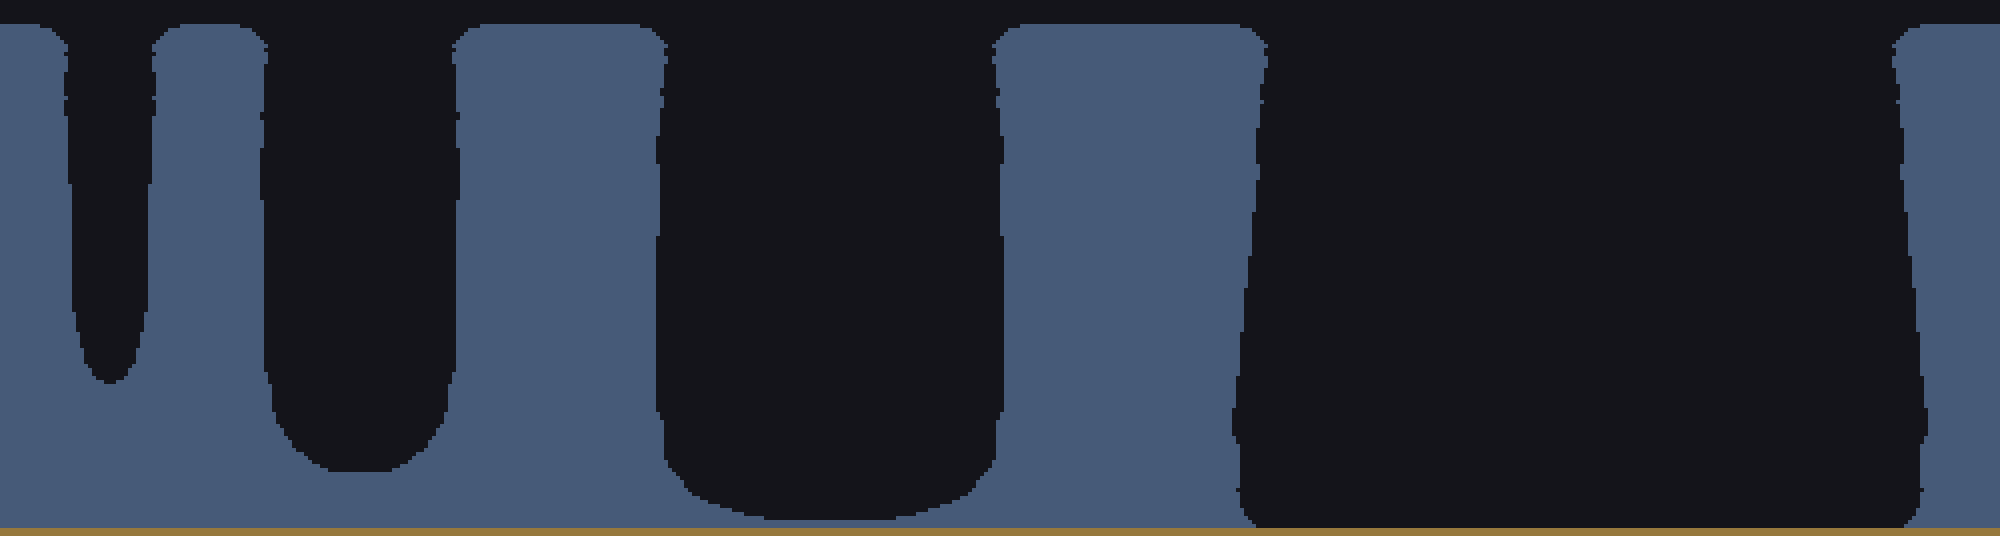
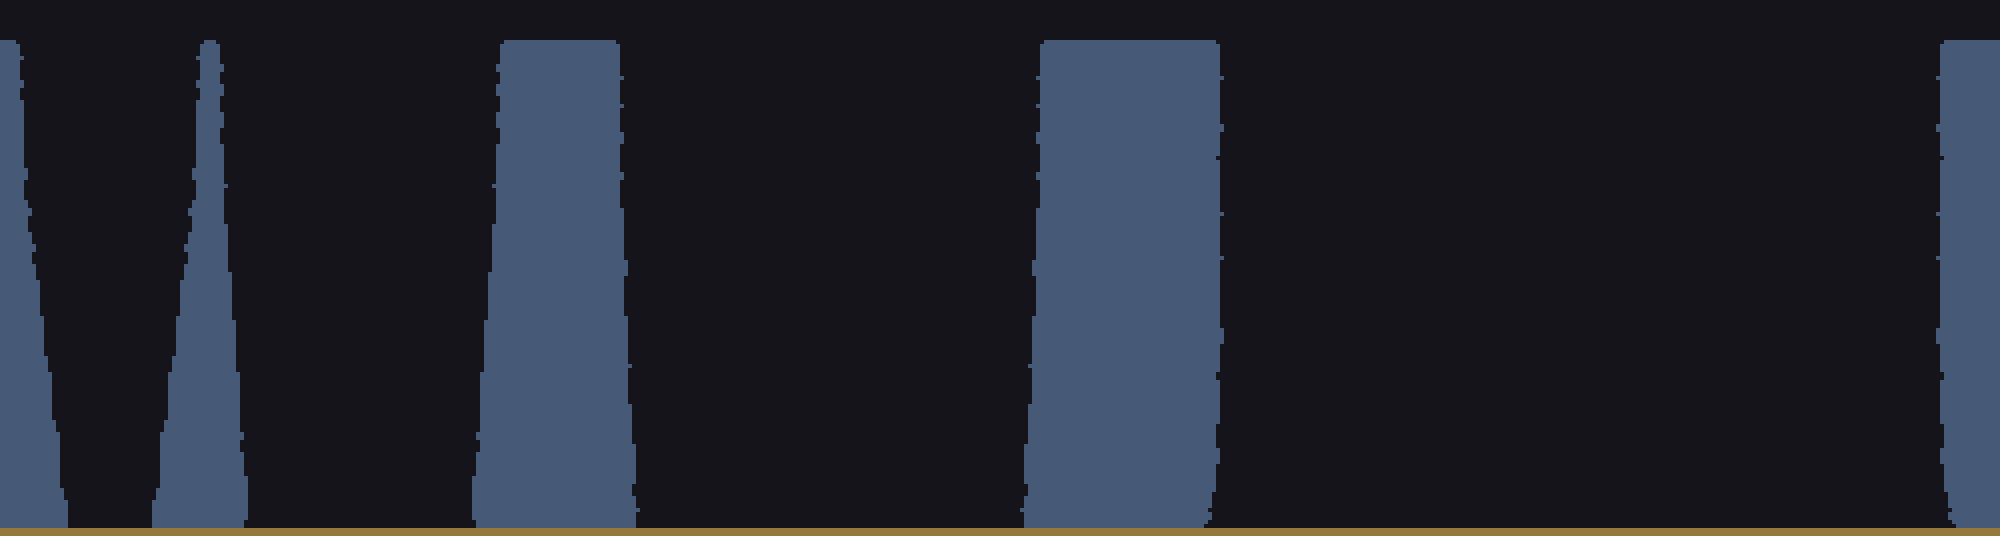
Etch: visible scalloping + positive/negative sidewall taper control
- scallops were sub-grid (period ~ cell size) and erased by per-substep
  reinitialisation; reinit now runs every N substeps (drift/propagation
  balance) and scallop size is an explicit scallop_um knob -> scallops are
  now resolved and visible (period tracks the cycle count)
- rate calibration constant so etch_per_cycle reads as um/cycle (the band/
  reinit-limited scheme advances ~0.5x V*dt otherwise)
- sidewall taper is now controllable and reported with sign:
    * passivation (<1) widens the long-exposed top  -> positive / narrowing
    * bow (>0) widens the bottom with depth (ion scatter) -> negative / bowing
  EtchResult.tapers[] gives the angle; report() labels the sign
- domain depth now sized from max(depth, box_at) so box_at beyond the target
  depth no longer clamps the trench onto the domain floor
- tests/test_etch.py +4 taper tests (sign control, separation, monotonic bow)
- examples/etch_demo.py regenerated; docs/etch_taper.png, etch_scallop.png

Changed region(s): [[0.0, 0.0299, 0.651, 0.9851], [0.93, 0.0299, 1.0, 0.9851]]

diff --git a/soidlc/etch.py b/soidlc/etch.py
@@ -48,9 +48,15 @@ def _load_lib():
             ctypes.c_int, ctypes.c_int, ctypes.c_double, ctypes.c_int,
             ctypes.c_double, ctypes.c_double, ctypes.c_double, ctypes.c_double,
             ctypes.c_int, ctypes.c_int, ctypes.c_int, ctypes.c_double,
-            ctypes.c_int, ctypes.c_int, ctypes.c_double]
+            ctypes.c_int, ctypes.c_int, ctypes.c_double,
+            ctypes.c_double, ctypes.c_double, ctypes.c_int]
         _LIB = lib
     return _LIB
+
+
+# the band/reinit-limited scheme advances the front at ~half of V*dt per
+# cycle; this constant makes ``etch_per_cycle`` read as um/cycle
+_RATE_CAL = 2.5
 
 
 # ---------------------------------------------------------------------------
@@ -62,6 +68,11 @@ class BoschRecipe:
     r_iso: float = 0.18             # isotropic (radical) rate, relative
     selectivity: float = 75.0       # Si:mask etch ratio
     footing: float = 1.5            # lateral boost at the oxide interface
+    scallop_um: float = 0.12        # lateral isotropic bulge per cycle (um)
+    passivation: float = 0.92       # sidewall protection (1 = perfect)
+    bow: float = 0.0                # depth-increasing sidewall etch: >0 gives
+                                    # negative taper / bowing, =0 positive taper
+    reinit_stride: int = 2          # reinit every N substeps (drift control)
     arde_angles: int = 28           # rays for the visibility (ARDE) factor
 
 
@@ -76,6 +87,7 @@ class EtchResult:
     depths: List[float] = field(default_factory=list)        # per opening, um
     widths: List[float] = field(default_factory=list)
     reached_box: List[bool] = field(default_factory=list)
+    tapers: List[float] = field(default_factory=list)   # deg, + = narrowing
     scallop_um: float = 0.0
     footing_um: float = 0.0
 
@@ -86,9 +98,13 @@ class EtchResult:
             ar = self.depths[k] / max(self.widths[k], 1e-6)
             flag = "reached BOX" if self.reached_box[k] else \
                 "ARDE-LIMITED (did not reach BOX -> region stays anchored)"
+            tp = self.tapers[k]
+            sign = "positive/narrowing" if tp > 0.3 else \
+                ("negative/bowing" if tp < -0.3 else "vertical")
             out.append(
                 "etch   opening %d: width %.1f um -> depth %.1f um "
-                "(AR %.1f) %s" % (k, self.widths[k], self.depths[k], ar, flag))
+                "(AR %.1f) taper %+.1f deg (%s) %s"
+                % (k, self.widths[k], self.depths[k], ar, tp, sign, flag))
         out.append("etch   scalloping ~%.2f um, footing undercut ~%.2f um"
                    % (self.scallop_um, self.footing_um))
         return out
@@ -106,10 +122,11 @@ def simulate(openings: List[Tuple[float, float]], domain_w: float,
     oxide sits at ``box_at`` (default: just below the target depth).
     """
     recipe = recipe or BoschRecipe()
-    nx = max(8, int(round(domain_w / dx)))
-    nz = max(8, int(round((depth + mask_thick + 4 * dx) / dx)))
-    j0 = int(round((mask_thick + 2 * dx) / dx))          # wafer top surface
     box_at = box_at if box_at is not None else depth
+    z_extent = max(depth, box_at)
+    nx = max(8, int(round(domain_w / dx)))
+    nz = max(8, int(round((z_extent + mask_thick + 4 * dx) / dx)))
+    j0 = int(round((mask_thick + 2 * dx) / dx))          # wafer top surface
     j_box = min(nz - 1, j0 + int(round(box_at / dx))) if box else nz + 10
 
     phi = [0.0] * (nx * nz)
@@ -130,9 +147,10 @@ def simulate(openings: List[Tuple[float, float]], domain_w: float,
 
     lib = _load_lib()
     dt = 0.35 * dx
-    n_aniso = max(1, int(round(recipe.etch_per_cycle / (recipe.r_ion * dt))))
-    # isotropic burst sized to one scallop (~15% of the vertical advance)
-    n_iso = max(1, int(round(0.15 * recipe.etch_per_cycle
+    n_aniso = max(1, int(round(_RATE_CAL * recipe.etch_per_cycle
+                               / (recipe.r_ion * dt))))
+    # isotropic burst sized to one scallop (absolute lateral bulge per cycle)
+    n_iso = max(1, int(round(recipe.scallop_um
                              / (recipe.r_iso * dt + 1e-9))))
     vis_maxlen = (depth + mask_thick) * 1.2
 
@@ -142,7 +160,8 @@ def simulate(openings: List[Tuple[float, float]], domain_w: float,
         lib.bosch_run(arr, mk, nx, nz, dx, j_box,
                       recipe.r_ion, recipe.r_iso, recipe.selectivity,
                       recipe.footing, recipe.cycles, n_aniso, n_iso, dt,
-                      2, recipe.arde_angles, vis_maxlen)
+                      recipe.reinit_stride, recipe.arde_angles, vis_maxlen,
+                      recipe.passivation, recipe.bow, j0)
         phi = list(arr)
     else:
         phi = _py_fallback(phi, mask, nx, nz, dx, j_box, recipe,
@@ -180,10 +199,40 @@ def _measure(res: EtchResult, j0: int, mask_thick: float):
         res.depths.append(depth)
         res.widths.append(max(width, x1 - x0))
         res.reached_box.append(jdeep >= res.j_box - 1)
+        res.tapers.append(_taper(res, j0, ic, jdeep))
     # scallop and footing measured on the deepest (best-resolved) trench
     kd = max(range(len(res.depths)), key=lambda k: res.depths[k])
     res.scallop_um = _scallop(res, j0, kd)
     res.footing_um = _footing(res, j0, kd)
+
+
+def _row_width(res, ic, j):
+    """Void width of the trench containing column ic at row j (um)."""
+    nx, nz, dx, phi = res.nx, res.nz, res.dx, res.phi
+    if phi[ic + nx * j] <= 0:
+        return 0.0
+    li = ic
+    while li > 0 and phi[li - 1 + nx * j] > 0:
+        li -= 1
+    ri = ic
+    while ri < nx - 1 and phi[ri + 1 + nx * j] > 0:
+        ri += 1
+    return (ri - li + 1) * dx
+
+
+def _taper(res, j0, ic, jdeep):
+    """Sidewall taper angle from vertical (deg): + = narrowing downward
+    (positive taper), - = widening / re-entrant (negative taper / bowing)."""
+    if jdeep <= j0 + 5:
+        return 0.0
+    jt = j0 + max(2, int(0.15 * (jdeep - j0)))
+    jb = j0 + int(0.85 * (jdeep - j0))
+    wt = _row_width(res, ic, jt)
+    wb = _row_width(res, ic, jb)
+    if wt <= 0 or wb <= 0:
+        return 0.0
+    dz = (jb - jt) * res.dx
+    return math.degrees(math.atan(0.5 * (wt - wb) / dz))
 
 
 def _wall_trace(res, j0, k):

diff --git a/soidlc/etch_core.c b/soidlc/etch_core.c
@@ -120,8 +120,9 @@ static void velocity(const double *phi, const unsigned char *mask,
                      const double *vis, double *poly, double *V,
                      int nx, int nz, double dx, int j_box, double R_ion,
                      double R_iso, double sel, double footing, double strip,
-                     double dt, int mode) {
-    double inv_dx = 1.0 / dx, band = 2.5 * dx, eps = 0.02;
+                     double dt, int mode, double passiv, double bow,
+                     int surf_j) {
+    double inv_dx = 1.0 / dx, band = 4.5 * dx, eps = 0.02;
     #pragma omp parallel for schedule(static)
     for (int j = 0; j < nz; j++)
         for (int i = 0; i < nx; i++) {
@@ -141,13 +142,32 @@ static void velocity(const double *phi, const unsigned char *mask,
                 if (poly[k] < 0.0) poly[k] = 0.0;
                 if (poly[k] > eps) continue;        /* still protected */
                 double rate = R_ion * aniso * (0.3 + 0.7 * v);
+                /* ion-scattering lateral widening at the drilling front,
+                 * growing with absolute depth -> re-entrant / negative taper
+                 * (applied once per depth level as the front passes) */
+                if (bow > 0.0) {
+                    double df = (double)(j - surf_j) /
+                                (double)(j_box - surf_j + 1);
+                    if (df < 0.0) df = 0.0; else if (df > 1.0) df = 1.0;
+                    rate += bow * df * R_iso * dmax(0.0, fabs(gx) / gn);
+                }
                 if (mask[k]) rate /= sel;
                 V[k] = rate;
             } else {
-                if (poly[k] > eps) continue;         /* sidewall protected */
-                double rate = R_iso * v;
-                if (j >= j_box - 3 && j < j_box)     /* footing at oxide */
-                    rate += footing * R_iso * v * dmax(0.0, fabs(gx) / gn);
+                double rate;
+                if (poly[k] <= eps) {
+                    /* freshly de-passivated bottom: full isotropic etch */
+                    rate = R_iso * v;
+                    if (j >= j_box - 3 && j < j_box) /* footing at oxide */
+                        rate += footing * R_iso * v * dmax(0.0, fabs(gx) / gn);
+                } else {
+                    /* protected sidewall: residual lateral etch from
+                     * imperfect passivation.  The top is exposed for the most
+                     * cycles, so it widens most -> positive taper (narrowing
+                     * downward); lower passivation = stronger positive taper */
+                    double vert = dmax(0.0, fabs(gx) / gn - dmax(0.0, -gz / gn));
+                    rate = (1.0 - passiv) * R_iso * v * vert;
+                }
                 if (mask[k]) rate /= sel;
                 V[k] = rate;
             }
@@ -156,7 +176,7 @@ static void velocity(const double *phi, const unsigned char *mask,
 
 static void vis_field(const double *phi, double *vis, int nx, int nz,
                       double dx, int nang, double maxlen) {
-    double band = 3.0 * dx;
+    double band = 5.0 * dx;
     #pragma omp parallel for schedule(static)
     for (int j = 0; j < nz; j++)
         for (int i = 0; i < nx; i++) {
@@ -169,7 +189,8 @@ static void vis_field(const double *phi, double *vis, int nx, int nz,
 void bosch_run(double *phi, const unsigned char *mask, int nx, int nz,
                double dx, int j_box, double R_ion, double R_iso, double sel,
                double footing, int ncycles, int n_aniso, int n_iso,
-               double dt, int reinit_iters, int vis_angles, double vis_maxlen)
+               double dt, int reinit_iters, int vis_angles, double vis_maxlen,
+               double passiv, double bow, int surf_j)
 {
     int n = nx * nz;
     double *V = malloc(sizeof(double) * n);
@@ -178,22 +199,26 @@ void bosch_run(double *phi, const unsigned char *mask, int nx, int nz,
     double *g = malloc(sizeof(double) * n);
     double *poly = calloc(n, sizeof(double));
     double strip = 3.0 / dt;                     /* polymer cleared fast */
+    /* reinit only every STRIDE substeps: frequent reinit drifts the
+     * interface backward (kills etch rate) and smooths out scalloping */
+    int stride = reinit_iters > 0 ? reinit_iters : 6;
+    int sc = 0;
     for (int c = 0; c < ncycles; c++) {
         vis_field(phi, vis, nx, nz, dx, vis_angles, vis_maxlen);
         deposit(phi, poly, nx, nz, dx, 1.0);     /* passivation step */
         for (int s = 0; s < n_aniso; s++) {
             velocity(phi, mask, vis, poly, V, nx, nz, dx, j_box,
-                     R_ion, R_iso, sel, footing, strip, dt, 0);
+                     R_ion, R_iso, sel, footing, strip, dt, 0, passiv, bow, surf_j);
             advect(phi, V, g, nx, nz, dx, dt);
-            reinit(phi, tmp, nx, nz, dx, 1);
+            if (++sc % stride == 0) reinit(phi, tmp, nx, nz, dx, 2);
         }
         for (int s = 0; s < n_iso; s++) {
             velocity(phi, mask, vis, poly, V, nx, nz, dx, j_box,
-                     R_ion, R_iso, sel, footing, strip, dt, 1);
+                     R_ion, R_iso, sel, footing, strip, dt, 1, passiv, bow, surf_j);
             advect(phi, V, g, nx, nz, dx, dt);
-            reinit(phi, tmp, nx, nz, dx, 1);
+            if (++sc % stride == 0) reinit(phi, tmp, nx, nz, dx, 2);
         }
-        if (reinit_iters > 0) reinit(phi, tmp, nx, nz, dx, reinit_iters);
     }
+    reinit(phi, tmp, nx, nz, dx, 2);             /* final clean-up */
     free(V); free(vis); free(tmp); free(g); free(poly);
 }

diff --git a/tests/test_etch.py b/tests/test_etch.py
@@ -77,6 +77,35 @@ class TestAnalyticLimits(unittest.TestCase):
         self.assertLess(r.scallop_um, 2.0)
 
 
+class TestTaper(unittest.TestCase):
+    """Sidewall taper sign must be controllable: passivation-starved etching
+    widens the long-exposed top (positive taper / narrowing downward); ion
+    scattering with depth widens the bottom (negative taper / bowing)."""
+
+    def _taper(self, passivation, bow):
+        r = etch.simulate([(12, 20)], domain_w=40, depth=16, dx=0.1,
+                          recipe=etch.BoschRecipe(
+                              cycles=24, etch_per_cycle=0.85,
+                              passivation=passivation, bow=bow,
+                              scallop_um=0.12), box_at=30)
+        return r.tapers[0]
+
+    def test_positive_taper_narrows(self):
+        self.assertGreater(self._taper(0.25, 0.0), 0.5)
+
+    def test_negative_taper_bows(self):
+        self.assertLess(self._taper(0.99, 0.6), -2.0)
+
+    def test_taper_sign_separates(self):
+        pos = self._taper(0.25, 0.0)
+        neg = self._taper(0.99, 0.6)
+        self.assertGreater(pos - neg, 3.0, (pos, neg))
+
+    def test_bow_monotonic(self):
+        # stronger bow -> more negative (re-entrant) taper
+        self.assertLess(self._taper(0.99, 0.6), self._taper(0.99, 0.3) + 0.5)
+
+
 class TestNumerics(unittest.TestCase):
     def test_no_nan_and_bounded(self):
         r = _depth(8.0, cycles=24)
